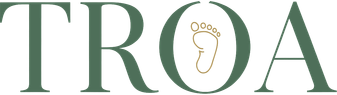
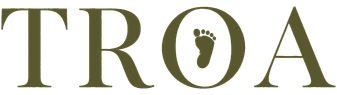
Logoja e re TROA: bufi si ikonë (mbi ulli), emri TROA në ulli/krem, splash me bufin mbi ulli

diff --git a/app/index.tsx b/app/index.tsx
@@ -10,7 +10,7 @@ export default function Index() {
   if (loading) {
     return (
       // E njëjta figurë, sfond dhe madhësi si splash-i: kalimi s'duket fare.
-      <View className="flex-1 items-center justify-center" style={{ backgroundColor: "#F7EDE5" }}>
+      <View className="flex-1 items-center justify-center" style={{ backgroundColor: "#58572D" }}>
         <Image source={require("@/assets/images/splash-logo.png")} style={{ width: 300, height: 300 }} contentFit="contain" />
       </View>
     );

diff --git a/components/ui/BrandSplash.tsx b/components/ui/BrandSplash.tsx
@@ -31,6 +31,6 @@ export function BrandSplash({ until }: { until: number }) {
 }
 
 const styles = StyleSheet.create({
-  wrap: { backgroundColor: "#F7EDE5", alignItems: "center", justifyContent: "center", zIndex: 1000 },
+  wrap: { backgroundColor: "#58572D", alignItems: "center", justifyContent: "center", zIndex: 1000 },
   logo: { width: 300, height: 300 },
 });
